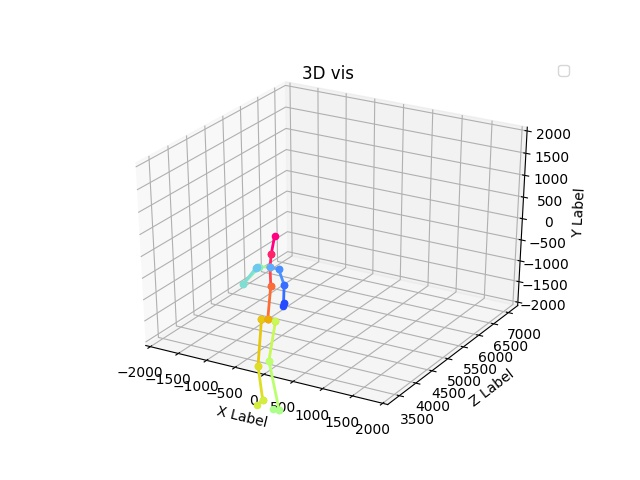
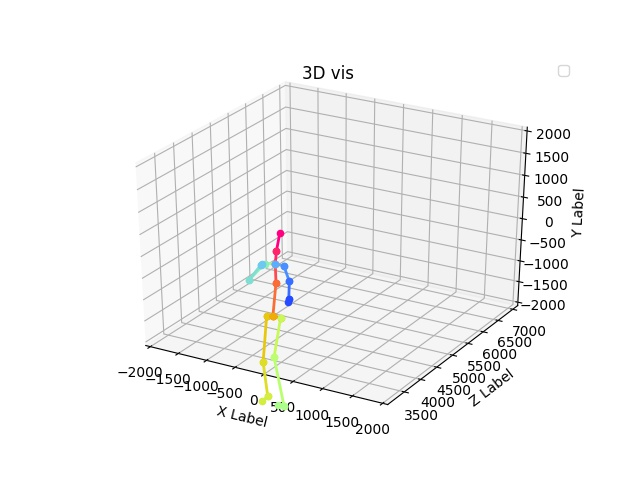
Improve vis.

Changed region(s): [[0.2188, 0.1875, 0.8438, 0.9062]]

diff --git a/vis.py b/vis.py
@@ -23,7 +23,8 @@ def visualize_and_save(image, preds):
             if (pred[pipeline_cfg.spine_inx, 0] < -2500) or \
                     pred[pipeline_cfg.spine_inx, 1] < -2500 or \
                     pred[pipeline_cfg.spine_inx, 0] > 2500 or \
-                    pred[pipeline_cfg.spine_inx, 1] > 2500 or pred[0, 2] > min_z + 5000:
+                    pred[pipeline_cfg.spine_inx, 1] > 2500 or \
+                    pred[pipeline_cfg.spine_inx, 2] > min_z + 5000:
                 continue
 
             for l in range(len(pipeline_cfg.skeleton)):
@@ -42,7 +43,7 @@ def visualize_and_save(image, preds):
         ax.set_ylabel('Z Label')
         ax.set_zlabel('Y Label')
         ax.set_xlim([-2000,2000])
-        ax.set_ylim([min_z - 1000, min_z + 3000])
+        ax.set_ylim([min_z - 2000, min_z + 2000])
         ax.set_zlim([-2000,2000])
         ax.legend()
         plt.savefig(pipeline_cfg.output_vis_path)
